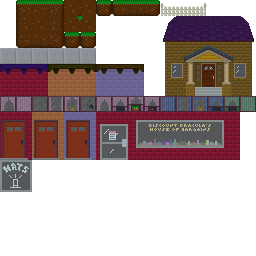
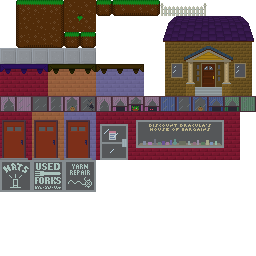
two new essential main street retailers

Changed region(s): [[0.125, 0.625, 0.375, 0.75]]

diff --git a/src/game/scene/scene.c b/src/game/scene/scene.c
@@ -10,8 +10,8 @@ Texture2D testtex;
 void set_scene(Scene *scene){
     if(scene == &SCENE_MENU){
         current_scene = scene;
-        testimg = LoadImageFromMemory(".png",image_test,image_test_length);
-        testtex = LoadTextureFromImage(testimg);
+        //testimg = LoadImageFromMemory(".png",image_test,image_test_length);
+        //testtex = LoadTextureFromImage(testimg);
     }
 }
 
